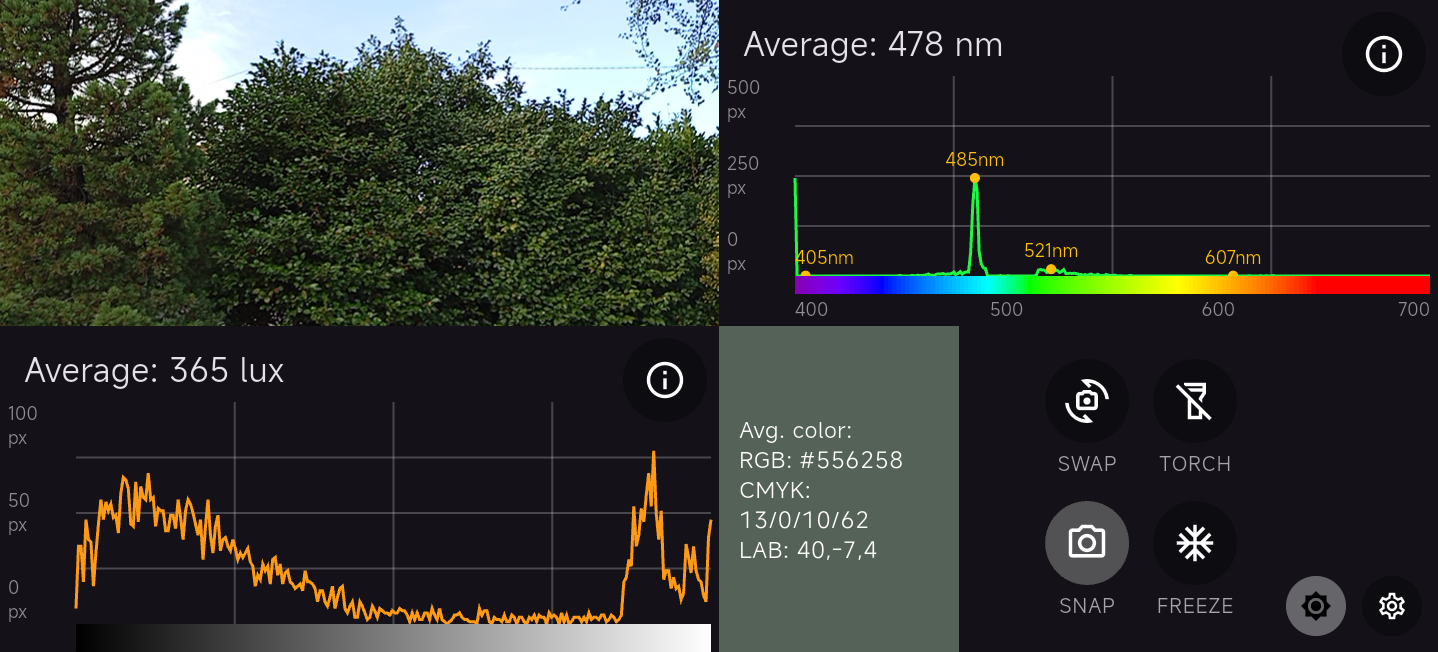
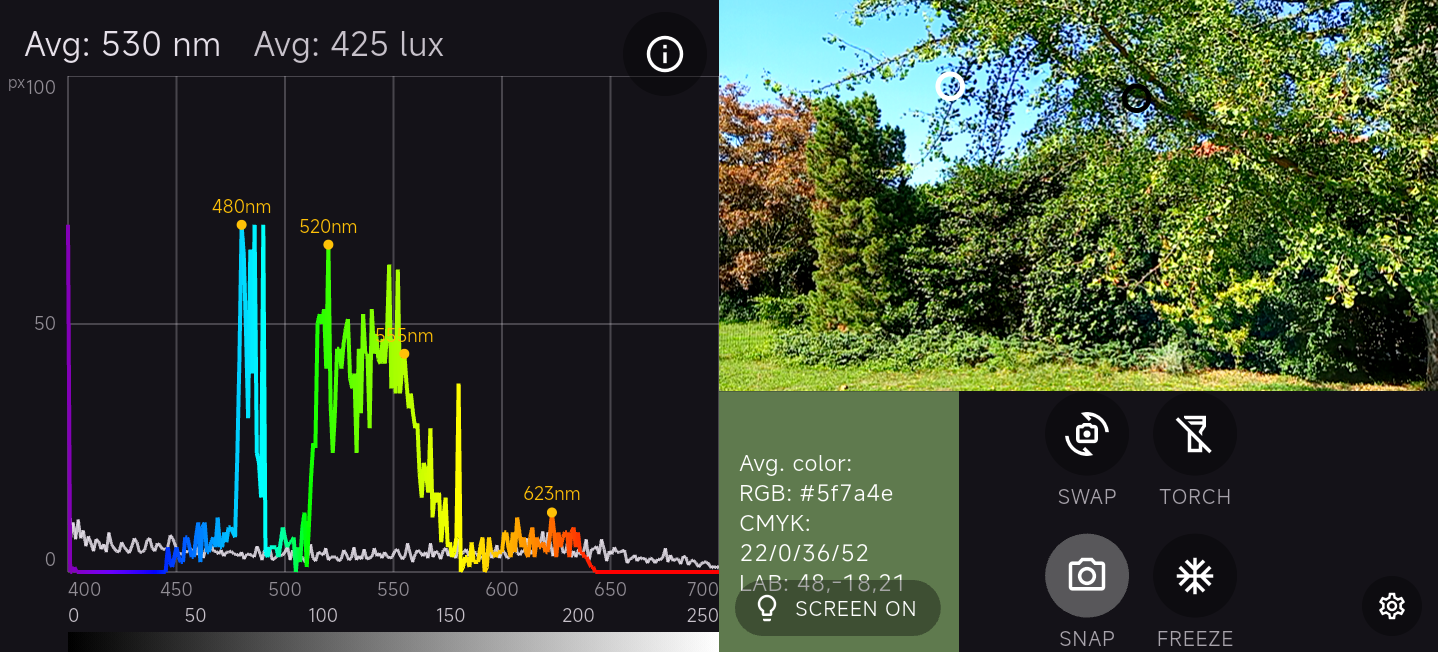
Update dependencies

diff --git a/agents.md b/agents.md
@@ -41,6 +41,7 @@ Agents must use modern Flutter API patterns. Do not copy legacy (2022 or older) 
 ## 3. Strict Error Handling & Failure Protocols
 * **No Silent Swallowing:** Never wrap blocks in blank `catch (e) {}` statements. Errors must be captured, transformed into typed domain `Failure` objects, and explicitly pushed to the presentation layer or logged.
 * **Explicit Failure Over Default Data:** When parsing JSON data, configuration files, or network responses, **never fall back to implicit placeholder or default values** (e.g., an empty string `""` or a current timestamp `DateTime.now()`) if validation fails. Return an explicit `null` or throw a parsing exception. It is always better for the application to fail loudly and traceably than to operate silently with corrupted or hallucinated baseline data.
+* **Unit test per bug:** On every reported bug, create at least one (or more, as needed) unit test first to confirm the bug (expect the unit test to fail). On the bug fix finish, verify and confirm with the newly written unit test that the bug is fixed.
 
 ---
 
